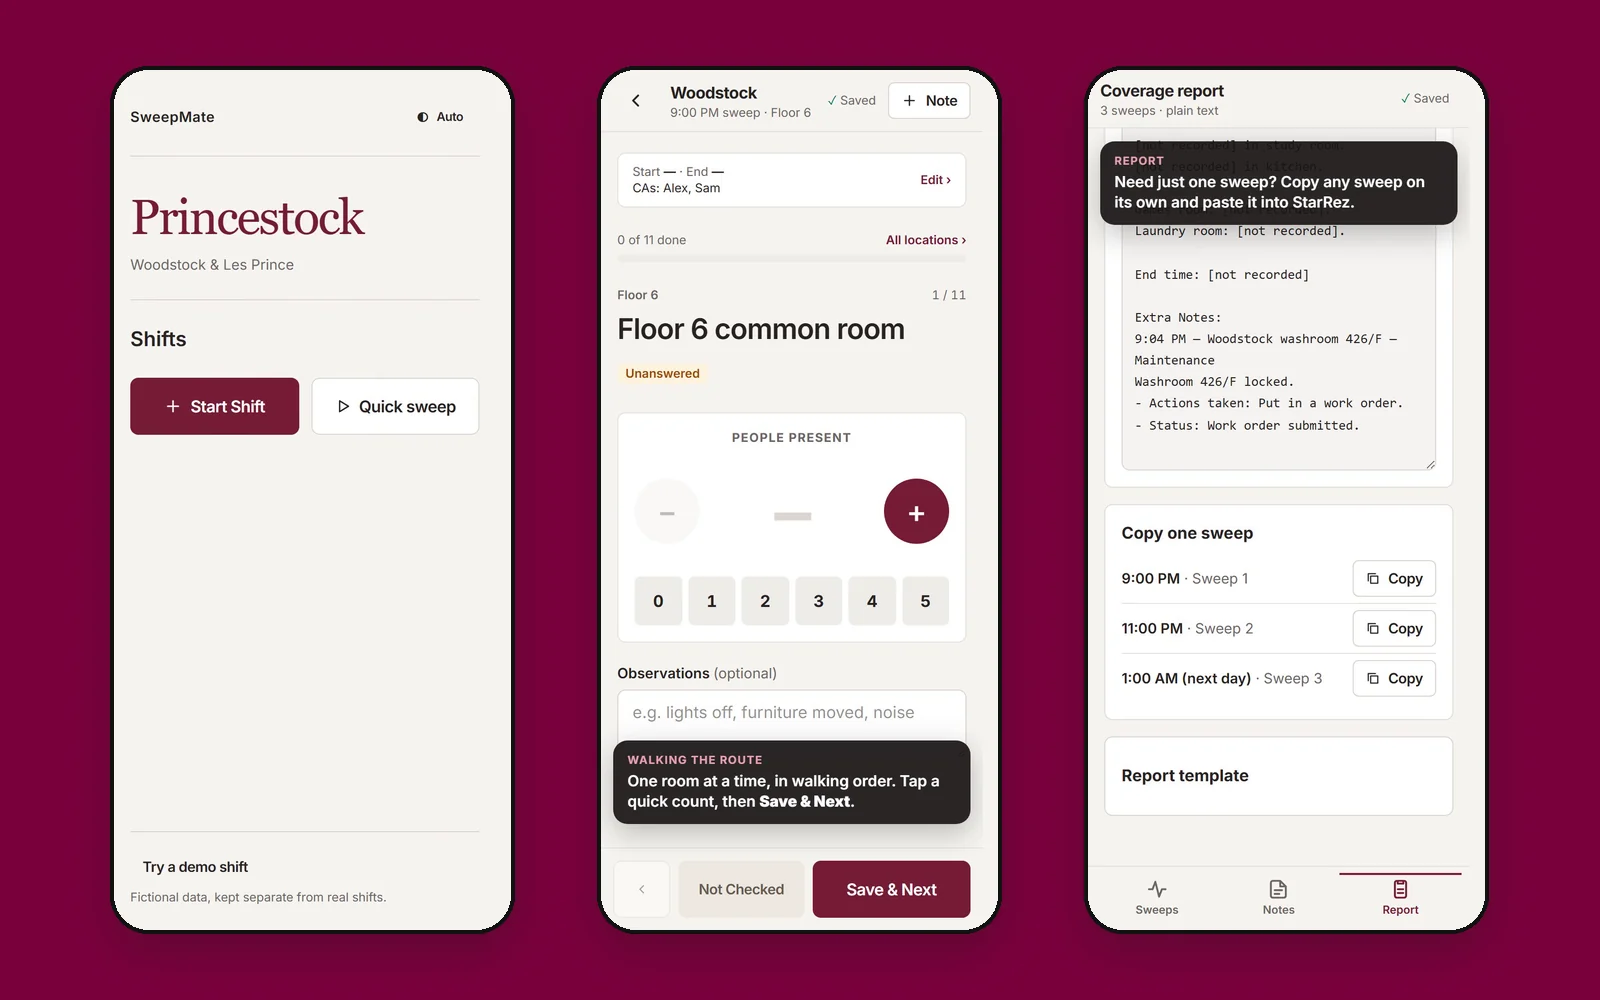
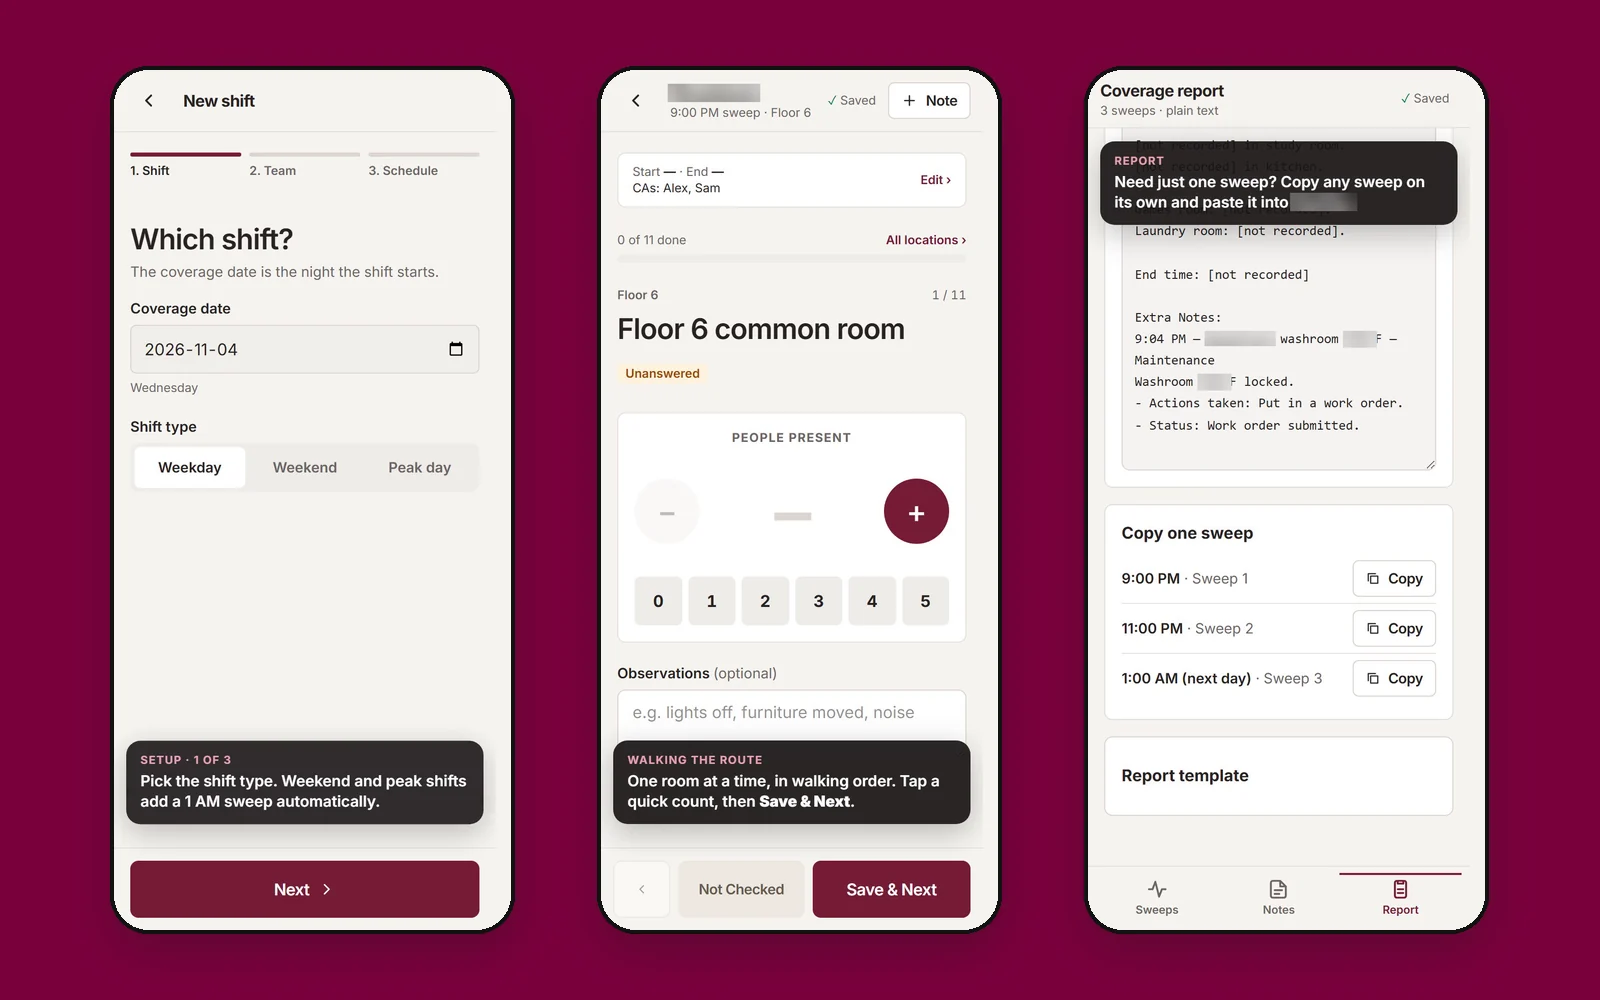
content(sweepmate): remove residence names and StarRez references, redact screenshots

diff --git a/content/projects.ts b/content/projects.ts
@@ -277,7 +277,7 @@ export const projects: Project[] = [
     kind: "Offline-first mobile web app",
     category: "product",
     status: "In progress",
-    oneLiner: "A mobile app for overnight residence rounds: guided walkthroughs, room counts and incident notes, turned into a report ready to paste into StarRez.",
+    oneLiner: "A mobile app for overnight residence rounds: guided walkthroughs, room counts and incident notes, turned into a report ready to file.",
     role: "Creator · design & full stack",
     stack: ["React", "TypeScript", "Vite", "Tailwind CSS", "Vitest", "PWA"],
     highlight: "Under review by McMaster as an official tool for residence Community Advisors.",
@@ -291,19 +291,19 @@ export const projects: Project[] = [
         width: 1600,
         height: 1000,
         caption: "From the first room to the final report, all on a phone",
-        alt: "SweepMate on a phone: the home screen, a room count during a sweep, and the coverage report with per-sweep copy buttons",
+        alt: "SweepMate on a phone: choosing the shift type, a room count during a sweep, and the coverage report with per-sweep copy buttons",
       },
       { src: "/projects/sweepmate/setup.webp", width: 1600, height: 1000, caption: "Set up the night: shift type, who's on coverage, and the sweep schedule", alt: "SweepMate setup screens: choosing the shift, adding CAs on coverage, and setting sweep times" },
       { src: "/projects/sweepmate/walk.webp", width: 1600, height: 1000, caption: "Walk the route one room at a time, with quick counts and observations", alt: "SweepMate walkthrough: the shift overview, a room count, and an observation being typed" },
       { src: "/projects/sweepmate/report.webp", width: 1600, height: 1000, caption: "Log notes as they happen, then copy the whole report or a single sweep", alt: "SweepMate notes and report: a maintenance note form, the report preview, and per-sweep copy buttons" },
     ],
     problem:
-      "Community Advisors walk residence buildings several times a night, counting people in shared spaces and noting issues. Counts end up scribbled wherever is quickest, then retyped into StarRez's format at the end of a long shift, when details are easiest to lose.",
+      "Community Advisors walk residence buildings several times a night, counting people in shared spaces and noting issues. Counts end up scribbled wherever is quickest, then retyped into the residence reporting system at the end of a long shift, when details are easiest to lose.",
     built:
-      "A phone-first app built around the real routes in Woodstock and Les Prince. It shows the next room while you walk, captures counts and notes the moment you see them, and turns the night into a consistent StarRez report you can copy in one tap, for the whole shift or a single sweep. It works offline and needs no account.",
+      "A phone-first app built around real residence routes. It shows the next room while you walk, captures counts and notes the moment you see them, and turns the night into a consistent, ready-to-file report you can copy in one tap, for the whole shift or a single sweep. It works offline and needs no account.",
     how: [
       "Two workflows share one recording model: Lead coverage for the full night, and Quick sweep for support CAs covering one building.",
-      "Route configuration is kept separate from report layout, so Les Prince can alternate wings on the walk while the report still lists every floor north-first.",
+      "Route configuration is kept separate from report layout, so a building can alternate wings on the walk while the report keeps a fixed floor order.",
       "Overnight scheduling handles sweeps after midnight as part of the same shift, and adding or reordering sweeps keeps their existing records.",
       "Installable PWA that autosaves every entry on the phone and opens with no signal, since rounds pass through basements and stairwells.",
       "Saved data is normalized at the storage boundary, so older records still load and invalid ones are caught.",
@@ -329,21 +329,21 @@ export const projects: Project[] = [
     ],
     diagram: {
       height: 360,
-      caption: "From the round to the report: entries save on the phone as they're made, then become a StarRez-ready report.",
+      caption: "From the round to the report: entries save on the phone as they're made, then become a ready-to-file report.",
       nodes: [
         { id: "setup", label: "Shift setup", sub: "lead or quick sweep", x: 120, y: 90, tone: "muted" },
         { id: "route", label: "Route builder", sub: "building config", x: 370, y: 90 },
         { id: "walk", label: "Walkthrough", sub: "count · skip · note", x: 620, y: 90, tone: "accent" },
         { id: "store", label: "On-device save", sub: "autosave · offline", x: 870, y: 90 },
-        { id: "report", label: "Report builder", sub: "StarRez format", x: 620, y: 270 },
-        { id: "starrez", label: "StarRez", sub: "copy · share · TXT", x: 870, y: 270, tone: "muted" },
+        { id: "report", label: "Report builder", sub: "standard format", x: 620, y: 270 },
+        { id: "filed", label: "Filed report", sub: "copy · share · TXT", x: 870, y: 270, tone: "muted" },
       ],
       edges: [
         { from: "setup", to: "route" },
         { from: "route", to: "walk" },
         { from: "walk", to: "store", label: "autosave" },
         { from: "walk", to: "report", label: "records" },
-        { from: "report", to: "starrez", label: "copy" },
+        { from: "report", to: "filed", label: "copy" },
       ],
     },
   },
